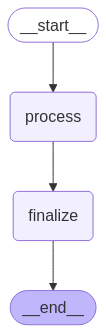
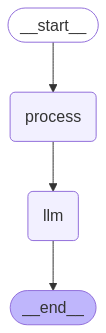
Add LLM integration to graph workflow
Introduced a new `llm_node` to the StateGraph, leveraging LangChain's ChatOllama for generating responses. Updated the graph schema to include an optional `question` field and adjusted the workflow structure. Enhanced the graph execution to produce LLM-based outputs, improving functionality and demonstrating real-world use cases.

Changed region(s): [[0.2547, 0.5706, 0.7642, 0.7207], [0.8208, 0.5706, 0.9057, 0.7207], [0.1132, 0.5706, 0.1698, 0.7207]]

diff --git a/01-LangGraph_Intro/01.1-getting_started.py b/01-LangGraph_Intro/01.1-getting_started.py
@@ -1,62 +1,83 @@
 from IPython.core.display import Image
 from langgraph.graph import StateGraph
 from typing import TypedDict
+from langchain_openai import OpenAI
+from langchain_ollama import ChatOllama
+from rich import print
+
+# Create a ChatOpenAI instance with desired parameters.
+# Talking Point: LangChain’s ChatOpenAI handles the OpenAI API call.
+llm = ChatOllama(temperature=0, model="llama3.2")
 
 
 # Define the state schema for the graph.
-class GraphState(TypedDict):
+# Talking Point: The state now includes an optional 'question' alongside the 'messages' list.
+class GraphState(TypedDict, total=False):
     messages: list[dict]
+    question: str
 
 
 # Define the first node function that processes the state.
 def process_node(state: GraphState) -> GraphState:
-    # Process the state by appending a processed message.
+    # Append a processed message.
     new_message = {"content": "Processed message", "status": "processed"}
     state["messages"].append(new_message)
-    # Talking Point: This node demonstrates the initial processing step.
+    # Talking Point: This node simulates the initial processing step.
     return state
 
 
 # Define an additional node function that finalizes the state.
 def finalize_node(state: GraphState) -> GraphState:
-    # Further process the state by appending a finalized message.
+    # Append a finalized message.
     final_message = {"content": "Finalized message", "status": "finalized"}
     state["messages"].append(final_message)
-    # Talking Point: This node shows how subsequent steps can extend the workflow.
+    # Talking Point: This node shows how to extend the workflow before invoking the LLM.
+    return state
+
+
+# Define the final node function that uses LangChain's OpenAI for generating a response.
+def llm_node(state: GraphState) -> GraphState:
+    # Retrieve the question from the state.
+    question = state.get("question", "No question provided.")
+    # Use LangChain's ChatOpenAI to generate an answer.
+    answer = llm.invoke(question)
+    llm_message = {"content": answer, "status": "llm_response"}
+    state["messages"].append(llm_message)
+    # Talking Point: This node integrates a real LLM response as the final output.
     return state
 
 
 # Create the StateGraph instance with the defined state schema.
 graph = StateGraph(GraphState)
 
-# Add both nodes to the graph.
+# Add nodes to the graph.
 graph.add_node("process", process_node)
-graph.add_node("finalize", finalize_node)
+graph.add_node("llm", llm_node)
 
-# Add an edge to connect the "process" node to the "finalize" node.
-graph.add_edge("process", "finalize")
+# Define edges to set the flow: process -> finalize -> llm.
+graph.add_edge("process", "llm")
 
-# Set the entry point to "process" and the finish point to "finalize".
+# Set the entry point to "process" and the finish point to "llm".
 graph.set_entry_point("process")
-graph.set_finish_point("finalize")
+graph.set_finish_point("llm")
 
 # Compile the graph into an executable application.
 app = graph.compile()
-# display the graph structure with Ascii art.
+
+# Visualize the graph structure as ASCII art.
 print(app.get_graph().draw_ascii())
-# Display the graph structure as a PNG image.
+
+# Generate and save the graph structure as a PNG image.
 img = app.get_graph().draw_mermaid_png()
-# save the image to a file.
 with open("graph.png", "wb") as f:
     f.write(img)
 
-
+# Optionally, print the Mermaid diagram as text.
 print(app.get_graph().draw_mermaid())
 
-
-# Run the graph with an initial state.
-initial_state = {"messages": []}
+# Run the graph with an initial state that includes a question.
+initial_state = {"messages": [], "question": "What is LangGraph?"}
 result = app.invoke(initial_state)
 
-# Output the final state to observe the accumulated changes.
+# Output the final state to observe the accumulated changes, including the LLM response.
 print("Final state after graph execution:", result)
